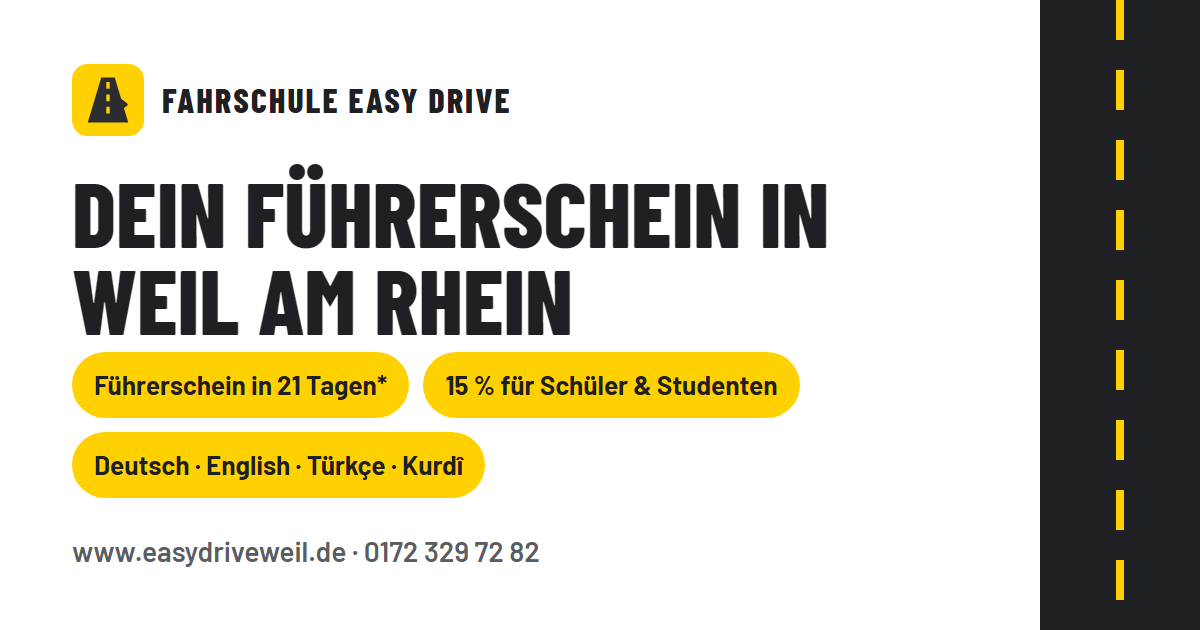
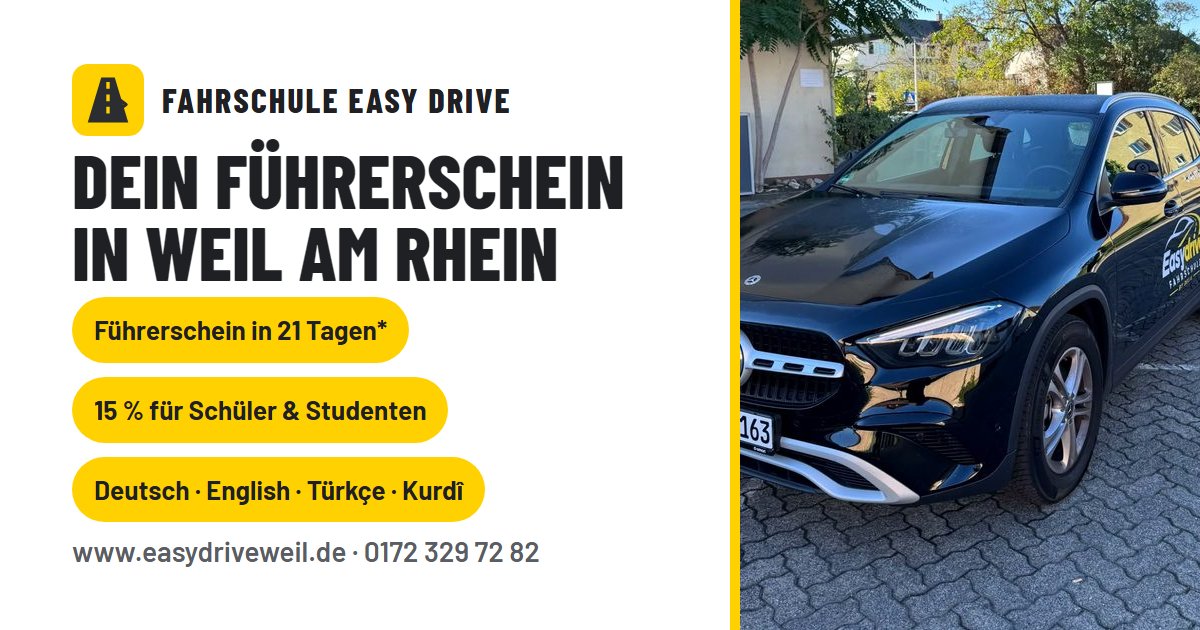
v3c: real photos, values section, photo social preview
Preview build, still noindex. Client photos on fleet, about, contact, values, Intensivkurs and Klassen pages; og.png with the car.

diff --git a/index.html b/index.html
@@ -12,7 +12,7 @@
 <link rel="icon" href="assets/img/favicon.svg" type="image/svg+xml">
 <link rel="preload" href="assets/fonts/barlow-condensed-800-latin.woff2" as="font" type="font/woff2" crossorigin>
 <link rel="preload" href="assets/fonts/barlow-400-latin.woff2" as="font" type="font/woff2" crossorigin>
-<link rel="stylesheet" href="assets/css/styles.css?v=a0ed5429">
+<link rel="stylesheet" href="assets/css/styles.css?v=307ae176">
 <meta property="og:type" content="website">
 <meta property="og:site_name" content="Fahrschule Easy Drive">
 <meta property="og:title" content="Fahrschule Weil am Rhein – Easy Drive · Führerschein in 21 Tagen*">
@@ -58,7 +58,7 @@
 
 <section class="jy jy--static" id="journey" aria-label="Die Fahrt – die Fahrschule auf der Karte von Weil am Rhein bis Lörrach">
   <div class="jy-sticky">
-    <div class="jy-stage" data-map="assets/img/map.svg?v=a0ed5429"><noscript><img src="assets/img/map.svg" width="1393" height="838" alt="Isometrische Karte von Weil am Rhein-Haltingen bis Lörrach mit dem Standort der Fahrschule Easy Drive"></noscript></div>
+    <div class="jy-stage" data-map="assets/img/map.svg?v=307ae176"><noscript><img src="assets/img/map.svg" width="1393" height="838" alt="Isometrische Karte von Weil am Rhein-Haltingen bis Lörrach mit dem Standort der Fahrschule Easy Drive"></noscript></div>
     <div class="jy-copylayer">
       <article class="jy-copy is-on" data-stop="anmelden" data-label="Haltingen">
         <span class="jy-copy__num"><b>01</b> / 06 · Heldelinger Straße 6, Weil am Rhein-Haltingen</span>
@@ -191,12 +191,14 @@
     </div>
     <div class="fleet">
       <div class="fleet__card">
-        <div class="fleet__img"><img src="assets/img/car-gla.svg" width="400" height="180" alt="Mercedes-Benz GLA 200 in Schwarz – Platzhalterbild, Foto folgt"></div>
-        <span class="fleet__ribbon">Foto folgt</span>
+        <div class="fleet__img"><img src="assets/img/photos/car-side-960.webp"
+          srcset="assets/img/photos/car-side-480.webp 480w, assets/img/photos/car-side-960.webp 960w, assets/img/photos/car-side-1440.webp 1440w"
+          sizes="(max-width: 860px) 100vw, 560px" width="1440" height="960" loading="lazy" decoding="async"
+          alt="Schwarzer Mercedes-Benz GLA 200 der Fahrschule Easy Drive mit Beschriftung, Seitenansicht"></div>
         <div class="fleet__body"><h3>Mercedes-Benz GLA 200</h3><p>Schwarz – Fahrschulauto für Klasse B und B197</p></div>
       </div>
       <div class="fleet__card">
-        <div class="fleet__img"><img src="assets/img/car-taigo.svg" width="400" height="180" alt="VW Taigo in Weiß – Platzhalterbild, Foto folgt"></div>
+        <div class="fleet__img fleet__img--placeholder"><img src="assets/img/car-taigo.svg" width="400" height="180" alt="VW Taigo in Weiß – Platzhalterbild, Foto folgt"></div>
         <span class="fleet__ribbon">Foto folgt</span>
         <div class="fleet__body"><h3>VW Taigo</h3><p>Weiß – Fahrschulauto für Klasse B und BE</p></div>
       </div>
@@ -237,8 +239,43 @@
       <div class="chips"><span class="chip">Persönliche Betreuung</span><span class="chip">Flexible Termine</span><span class="chip">Automatik und Schaltung</span><span class="chip">Automatik ohne Eintrag (B197)</span></div>
     </div>
     <div class="portrait">
-      <img src="assets/img/portrait.svg" width="400" height="300" alt="Team der Fahrschule Easy Drive – Foto folgt">
-      <div class="portrait__cap">Dein Fahrlehrer-Team – Foto folgt</div>
+      <img src="assets/img/photos/office-960.webp"
+        srcset="assets/img/photos/office-480.webp 480w, assets/img/photos/office-960.webp 960w, assets/img/photos/office-1440.webp 1440w"
+        sizes="(max-width: 860px) 100vw, 560px" width="1440" height="1080" loading="lazy" decoding="async"
+        alt="Empfang der Fahrschule Easy Drive in Haltingen: zwei Sessel, Tisch und Schreibtisch">
+      <div class="portrait__cap">Unser Büro an der Heldelinger Straße – Bürozeiten Mo · Mi · Fr 16:00–18:30 Uhr</div>
+    </div>
+  </div>
+</section>
+
+<section class="section section--grey" id="werte">
+  <div class="wrap values">
+    <figure class="values__photo">
+      <img src="assets/img/photos/pinboard-960.webp"
+        srcset="assets/img/photos/pinboard-480.webp 480w, assets/img/photos/pinboard-960.webp 960w, assets/img/photos/pinboard-1440.webp 1440w"
+        sizes="(max-width: 860px) 100vw, 480px" width="1440" height="1290" loading="lazy" decoding="async"
+        alt="Pinnwand im Theorieraum: unsere Regeln und Werte – partnerschaftlich, defensiv, umweltschonend, tolerant, Verkehrssicherheit hat oberste Priorität">
+      <figcaption>Pinnwand in unserem Theorieraum</figcaption>
+    </figure>
+    <div class="values__text">
+      <h2 class="h2">So fahren wir</h2>
+      <p class="lead">Fünf Worte hängen bei uns an der Wand, bevor die erste Stunde beginnt.</p>
+      <ul class="values__list">
+        <li>Partnerschaftlich</li><li>Defensiv</li><li>Umweltschonend</li><li>Tolerant</li>
+        <li class="values__prio">Verkehrssicherheit hat oberste Priorität</li>
+      </ul>
+      <h3 class="h3">Unsere Regeln im Unterricht</h3>
+      <ul class="values__rules">
+        <li>Respektvoll</li><li>Hilfsbereit</li><li>Freundlichkeit</li><li>Gutes Miteinander</li><li>Unterstützend</li>
+        <li>Ehrlichkeit</li><li>Offenheit / Teamfähigkeit</li><li>Zusammenhalt</li><li>Auf Augenhöhe</li><li>Gleiches Ziel</li>
+      </ul>
+      <figure class="values__room">
+        <img src="assets/img/photos/classroom-960.webp"
+          srcset="assets/img/photos/classroom-480.webp 480w, assets/img/photos/classroom-960.webp 960w, assets/img/photos/classroom-1440.webp 1440w"
+          sizes="(max-width: 860px) 100vw, 560px" width="1440" height="1080" loading="lazy" decoding="async"
+          alt="Theorieraum der Fahrschule Easy Drive mit Tischen, Flipchart und Lehrpostern">
+        <figcaption>Theorie in kleinen Gruppen, drei Minuten vom Bahnhof Haltingen</figcaption>
+      </figure>
     </div>
   </div>
 </section>
@@ -268,6 +305,12 @@
       <div>
         <h2 class="h2">Komm vorbei – oder schreib uns</h2>
         <p class="lead">Bürozeiten für Beratung und Anmeldung. Fahrstunden nach Vereinbarung, auch außerhalb der Bürozeiten.</p>
+        <div class="contact__photo">
+          <img src="assets/img/photos/office-desk-960.webp"
+            srcset="assets/img/photos/office-desk-480.webp 480w, assets/img/photos/office-desk-960.webp 960w, assets/img/photos/office-desk-1440.webp 1440w"
+            sizes="(max-width: 860px) 100vw, 560px" width="1440" height="1080" loading="lazy" decoding="async"
+            alt="Schreibtisch im Büro der Fahrschule Easy Drive mit Infopostern zum Führerscheinantrag">
+        </div>
         <ul class="contact__list">
           <li><svg viewBox="0 0 24 24" fill="none" stroke="currentColor" stroke-width="2" stroke-linecap="round" stroke-linejoin="round" aria-hidden="true"><path d="M12 21s7-6.2 7-11a7 7 0 0 0-14 0c0 4.8 7 11 7 11z"/><circle cx="12" cy="10" r="2.5"/></svg><span>Heldelinger Straße 6, 79576 Weil am Rhein-Haltingen – <a href="https://www.google.com/maps/search/?api=1&query=Heldelinger+Stra%C3%9Fe+6%2C+79576+Weil+am+Rhein" target="_blank" rel="noopener">Route planen</a></span></li>
           <li><svg viewBox="0 0 24 24" fill="none" stroke="currentColor" stroke-width="2" stroke-linecap="round" stroke-linejoin="round" aria-hidden="true"><circle cx="12" cy="12" r="9"/><path d="M12 7v5l3 2"/></svg><span>Mo · Mi · Fr 16:00–18:30 Uhr</span></li>
@@ -305,8 +348,8 @@
 </section>
 
 </main>
-<script src="assets/js/journey-data.js?v=a0ed5429" defer></script>
-<script src="assets/js/journey.js?v=a0ed5429" defer></script>
+<script src="assets/js/journey-data.js?v=307ae176" defer></script>
+<script src="assets/js/journey.js?v=307ae176" defer></script>
 
 <section class="cta" id="cta">
   <div class="wrap cta__inner">
@@ -360,6 +403,6 @@
   <a class="btn btn--primary" href="#anfrage">Jetzt anmelden</a>
 </div>
 
-<script src="assets/js/app.js?v=a0ed5429" defer></script>
+<script src="assets/js/app.js?v=307ae176" defer></script>
 </body>
 </html>

diff --git a/assets/css/styles.css b/assets/css/styles.css
@@ -143,8 +143,9 @@ p{margin:0 0 1em}
 /* ---------- fleet ---------- */
 .fleet{display:grid;grid-template-columns:1fr 1fr;gap:22px}
 .fleet__card{position:relative;border:1px solid var(--line);border-radius:var(--radius);overflow:hidden;background:#fff}
-.fleet__img{aspect-ratio:16/9;background:linear-gradient(180deg,#fff 0,var(--grey-1) 100%);display:grid;place-items:center;padding:30px}
-.fleet__img img{width:80%;height:auto}
+.fleet__img{aspect-ratio:3/2;background:var(--grey-1)}
+.fleet__img img{width:100%;height:100%;object-fit:cover;display:block}
+.fleet__img--placeholder img{object-fit:contain;padding:24px}
 .fleet__ribbon{position:absolute;top:18px;right:-40px;transform:rotate(35deg);background:var(--yellow);color:var(--anthracite-2);font-weight:800;font-family:var(--f-display);text-transform:uppercase;letter-spacing:.06em;padding:6px 60px;font-size:.9rem}
 .fleet__body{padding:18px 22px 22px}
 .fleet__body h3{margin:0 0 4px;font-family:var(--f-display);text-transform:uppercase;font-size:1.4rem}
@@ -165,6 +166,18 @@ p{margin:0 0 1em}
 .portrait img{width:100%;height:auto}
 .portrait__cap{position:absolute;left:0;right:0;bottom:0;background:rgba(30,32,35,.85);color:#fff;padding:10px 16px;font-size:.9rem}
 
+/* ---------- classroom values ---------- */
+.values{display:grid;grid-template-columns:.9fr 1.1fr;gap:40px;align-items:start}
+.values__photo,.values__room{margin:0;border-radius:var(--radius);overflow:hidden;border:1px solid var(--line);background:#fff}
+.values__photo img,.values__room img{display:block;width:100%;height:auto}
+.values figcaption{font-size:.85rem;color:var(--muted);padding:10px 14px}
+.values__list{list-style:none;padding:0;margin:0 0 26px;display:flex;flex-wrap:wrap;gap:10px}
+.values__list li{font-family:var(--f-display);font-weight:700;font-size:1.25rem;padding:10px 16px;border:2px solid var(--anthracite);border-radius:12px}
+.values__list .values__prio{width:100%;background:var(--yellow);border-color:var(--yellow)}
+.values__rules{columns:2;column-gap:28px;padding-left:20px;margin:0 0 26px;line-height:1.7}
+.values__room{margin-top:8px}
+@media (max-width:860px){.values{grid-template-columns:1fr}.values__rules{columns:1}}
+
 /* ---------- faq ---------- */
 .faq{max-width:820px;display:grid;gap:10px}
 .faq details{background:#fff;border:1px solid var(--line);border-radius:12px;padding:0 20px}
@@ -176,6 +189,8 @@ p{margin:0 0 1em}
 
 /* ---------- contact + form + map ---------- */
 .contact{display:grid;grid-template-columns:.9fr 1.1fr;gap:36px;align-items:start}
+.contact__photo{border-radius:var(--radius);overflow:hidden;margin:0 0 18px}
+.contact__photo img{display:block;width:100%;height:auto}
 .contact__list{list-style:none;padding:0;margin:0 0 20px;display:grid;gap:12px}
 .contact__list li{display:flex;gap:12px;align-items:flex-start}
 .contact__list svg{width:22px;height:22px;flex:none;color:var(--yellow-2);margin-top:2px}
@@ -236,6 +251,9 @@ p{margin:0 0 1em}
 .breadcrumb{font-size:.85rem;color:var(--muted);margin:0 0 14px}
 .subhead{margin-bottom:28px}
 .subhead .lead{margin-bottom:12px}
+.page-photo{margin:28px 0 0;border-radius:var(--radius);overflow:hidden;border:1px solid var(--line)}
+.page-photo img{display:block;width:100%;height:auto}
+.page-photo figcaption{font-size:.85rem;color:var(--muted);padding:10px 14px;background:#fff}
 
 /* ---------- responsive ---------- */
 @media (max-width:980px){.hero__grid,.about,.contact,.classblock{grid-template-columns:1fr}.grid--3{grid-template-columns:1fr 1fr}.steps{grid-template-columns:repeat(2,1fr)}.lang{grid-template-columns:1fr 1fr}.foot__inner{grid-template-columns:1fr 1fr}.keyfacts{position:static}}

diff --git a/intensivkurs/index.html b/intensivkurs/index.html
@@ -12,7 +12,7 @@
 <link rel="icon" href="../assets/img/favicon.svg" type="image/svg+xml">
 <link rel="preload" href="../assets/fonts/barlow-condensed-800-latin.woff2" as="font" type="font/woff2" crossorigin>
 <link rel="preload" href="../assets/fonts/barlow-400-latin.woff2" as="font" type="font/woff2" crossorigin>
-<link rel="stylesheet" href="../assets/css/styles.css?v=a0ed5429">
+<link rel="stylesheet" href="../assets/css/styles.css?v=307ae176">
 <meta property="og:type" content="website">
 <meta property="og:site_name" content="Fahrschule Easy Drive">
 <meta property="og:title" content="Intensivkurs – Führerschein in 21 Tagen* in Weil am Rhein & Lörrach">
@@ -63,6 +63,13 @@
       <p class="lead">Wenig Zeit, klares Ziel: Nach bestandener Theorieprüfung bringen wir dich mit täglichen Fahrstunden und einem festen Plan in drei Wochen zur praktischen Prüfung.</p>
       <p class="note">*Voraussetzungen: bestandene Theorieprüfung und vorliegender Prüfauftrag, regelmäßige (in der Regel tägliche) Fahrstunden, verfügbare Prüfungstermine beim TÜV SÜD, Bestehen im ersten Anlauf, Mindestalter erreicht.</p>
       <div class="chips"><span class="chip chip--yellow">Start jederzeit nach Absprache</span><span class="chip">Automatik oder Schaltung</span><span class="chip">Deutsch, Englisch, Türkisch, Kurdisch</span></div>
+      <figure class="page-photo">
+        <img src="../assets/img/photos/car-angle-960.webp"
+          srcset="../assets/img/photos/car-angle-480.webp 480w, ../assets/img/photos/car-angle-960.webp 960w, ../assets/img/photos/car-angle-1440.webp 1440w"
+          sizes="(max-width: 860px) 100vw, 560px" width="1440" height="1080" loading="lazy" decoding="async"
+          alt="Mercedes-Benz GLA 200 der Fahrschule Easy Drive, Dreiviertelansicht von vorn">
+        <figcaption>Dein Auto für 21 Tage: Mercedes-Benz GLA 200, Automatik oder Schaltung</figcaption>
+      </figure>
     </div>
 
     <div class="prose">
@@ -167,6 +174,6 @@
   <a class="btn btn--primary" href="../#anfrage">Jetzt anmelden</a>
 </div>
 
-<script src="../assets/js/app.js?v=a0ed5429" defer></script>
+<script src="../assets/js/app.js?v=307ae176" defer></script>
 </body>
 </html>

diff --git a/fuehrerscheinklassen/index.html b/fuehrerscheinklassen/index.html
@@ -12,7 +12,7 @@
 <link rel="icon" href="../assets/img/favicon.svg" type="image/svg+xml">
 <link rel="preload" href="../assets/fonts/barlow-condensed-800-latin.woff2" as="font" type="font/woff2" crossorigin>
 <link rel="preload" href="../assets/fonts/barlow-400-latin.woff2" as="font" type="font/woff2" crossorigin>
-<link rel="stylesheet" href="../assets/css/styles.css?v=a0ed5429">
+<link rel="stylesheet" href="../assets/css/styles.css?v=307ae176">
 <meta property="og:type" content="website">
 <meta property="og:site_name" content="Fahrschule Easy Drive">
 <meta property="og:title" content="Führerscheinklassen B, B197 & BE – Fahrschule Easy Drive Weil am Rhein">
@@ -115,6 +115,13 @@
         <p>Kein Automatik-Vermerk heißt: volle Klasse B, auch im EU-Ausland. Wer sicher nie schalten will, kann alternativ den reinen Automatik-Führerschein (Schlüsselzahl 78) machen – frag uns.</p>
         <h3>Geeignet für</h3>
         <p>Fahranfänger, die stressfrei lernen wollen, Menschen mit Prüfungsangst, Umsteiger aus Ländern mit Automatik-Kultur – und alle, die wissen, dass die Zukunft elektrisch und automatisch fährt.</p>
+        <figure class="page-photo">
+          <img src="../assets/img/photos/car-front-960.webp"
+            srcset="../assets/img/photos/car-front-480.webp 480w, ../assets/img/photos/car-front-960.webp 960w, ../assets/img/photos/car-front-1440.webp 1440w"
+            sizes="(max-width: 860px) 100vw, 560px" width="1440" height="1080" loading="lazy" decoding="async"
+            alt="Mercedes-Benz GLA 200 der Fahrschule Easy Drive von vorn">
+          <figcaption>Automatik lernen, Schaltung fahren dürfen – mit unserem GLA 200</figcaption>
+        </figure>
       </div>
       <aside class="keyfacts">
         <b>Klasse B197</b>
@@ -219,6 +226,6 @@
   <a class="btn btn--primary" href="../#anfrage">Jetzt anmelden</a>
 </div>
 
-<script src="../assets/js/app.js?v=a0ed5429" defer></script>
+<script src="../assets/js/app.js?v=307ae176" defer></script>
 </body>
 </html>

diff --git a/tr/index.html b/tr/index.html
@@ -12,7 +12,7 @@
 <link rel="icon" href="../assets/img/favicon.svg" type="image/svg+xml">
 <link rel="preload" href="../assets/fonts/barlow-condensed-800-latin.woff2" as="font" type="font/woff2" crossorigin>
 <link rel="preload" href="../assets/fonts/barlow-400-latin.woff2" as="font" type="font/woff2" crossorigin>
-<link rel="stylesheet" href="../assets/css/styles.css?v=a0ed5429">
+<link rel="stylesheet" href="../assets/css/styles.css?v=307ae176">
 <meta property="og:type" content="website">
 <meta property="og:site_name" content="Fahrschule Easy Drive">
 <meta property="og:title" content="Weil am Rhein Sürücü Kursu – Türkçe Ehliyet · Fahrschule Easy Drive">
@@ -74,6 +74,12 @@
       <div class="usp"><span class="usp__big">21</span><div><div class="usp__t">gün içinde direksiyon sınavı*</div><div class="usp__s">teori sınavından sonra</div></div></div>
       <div class="usp"><span class="usp__big">4</span><div><div class="usp__t">dil</div><div class="usp__s">Almanca, İngilizce, Türkçe, Kürtçe</div></div></div>
     </aside>
+    <figure class="page-photo">
+      <img src="../assets/img/photos/car-side-960.webp"
+        srcset="../assets/img/photos/car-side-480.webp 480w, ../assets/img/photos/car-side-960.webp 960w, ../assets/img/photos/car-side-1440.webp 1440w"
+        sizes="(max-width: 860px) 100vw, 560px" width="1440" height="960" loading="lazy" decoding="async"
+        alt="Easy Drive sürücü kursunun yazılı siyah Mercedes-Benz GLA 200 aracı, yandan">
+    </figure>
   </div>
 </section>
 
@@ -235,6 +241,6 @@
   <a class="btn btn--primary" href="#anfrage">Hemen kaydol</a>
 </div>
 
-<script src="../assets/js/app.js?v=a0ed5429" defer></script>
+<script src="../assets/js/app.js?v=307ae176" defer></script>
 </body>
 </html>

diff --git a/en/index.html b/en/index.html
@@ -12,7 +12,7 @@
 <link rel="icon" href="../assets/img/favicon.svg" type="image/svg+xml">
 <link rel="preload" href="../assets/fonts/barlow-condensed-800-latin.woff2" as="font" type="font/woff2" crossorigin>
 <link rel="preload" href="../assets/fonts/barlow-400-latin.woff2" as="font" type="font/woff2" crossorigin>
-<link rel="stylesheet" href="../assets/css/styles.css?v=a0ed5429">
+<link rel="stylesheet" href="../assets/css/styles.css?v=307ae176">
 <meta property="og:type" content="website">
 <meta property="og:site_name" content="Fahrschule Easy Drive">
 <meta property="og:title" content="Driving School Weil am Rhein, Germany (near Basel) – Easy Drive">
@@ -74,6 +74,12 @@
       <div class="usp"><span class="usp__big">21</span><div><div class="usp__t">days to your practical test*</div><div class="usp__s">after passing the theory test</div></div></div>
       <div class="usp"><span class="usp__big">4</span><div><div class="usp__t">languages</div><div class="usp__s">German, English, Turkish, Kurdish</div></div></div>
     </aside>
+    <figure class="page-photo">
+      <img src="../assets/img/photos/car-side-960.webp"
+        srcset="../assets/img/photos/car-side-480.webp 480w, ../assets/img/photos/car-side-960.webp 960w, ../assets/img/photos/car-side-1440.webp 1440w"
+        sizes="(max-width: 860px) 100vw, 560px" width="1440" height="960" loading="lazy" decoding="async"
+        alt="Black Mercedes-Benz GLA 200 of Easy Drive driving school with livery, side view">
+    </figure>
   </div>
 </section>
 
@@ -235,6 +241,6 @@
   <a class="btn btn--primary" href="#anfrage">Sign up now</a>
 </div>
 
-<script src="../assets/js/app.js?v=a0ed5429" defer></script>
+<script src="../assets/js/app.js?v=307ae176" defer></script>
 </body>
 </html>

diff --git a/sprachen/index.html b/sprachen/index.html
@@ -12,7 +12,7 @@
 <link rel="icon" href="../assets/img/favicon.svg" type="image/svg+xml">
 <link rel="preload" href="../assets/fonts/barlow-condensed-800-latin.woff2" as="font" type="font/woff2" crossorigin>
 <link rel="preload" href="../assets/fonts/barlow-400-latin.woff2" as="font" type="font/woff2" crossorigin>
-<link rel="stylesheet" href="../assets/css/styles.css?v=a0ed5429">
+<link rel="stylesheet" href="../assets/css/styles.css?v=307ae176">
 <meta property="og:type" content="website">
 <meta property="og:site_name" content="Fahrschule Easy Drive">
 <meta property="og:title" content="Fahrschule auf Türkisch, Kurdisch & Englisch – Weil am Rhein / Lörrach">
@@ -149,6 +149,6 @@
   <a class="btn btn--primary" href="../#anfrage">Jetzt anmelden</a>
 </div>
 
-<script src="../assets/js/app.js?v=a0ed5429" defer></script>
+<script src="../assets/js/app.js?v=307ae176" defer></script>
 </body>
 </html>

diff --git a/fahrschule-loerrach/index.html b/fahrschule-loerrach/index.html
@@ -12,7 +12,7 @@
 <link rel="icon" href="../assets/img/favicon.svg" type="image/svg+xml">
 <link rel="preload" href="../assets/fonts/barlow-condensed-800-latin.woff2" as="font" type="font/woff2" crossorigin>
 <link rel="preload" href="../assets/fonts/barlow-400-latin.woff2" as="font" type="font/woff2" crossorigin>
-<link rel="stylesheet" href="../assets/css/styles.css?v=a0ed5429">
+<link rel="stylesheet" href="../assets/css/styles.css?v=307ae176">
 <meta property="og:type" content="website">
 <meta property="og:site_name" content="Fahrschule Easy Drive">
 <meta property="og:title" content="Fahrschule für Lörrach – Easy Drive in Weil am Rhein-Haltingen">
@@ -136,6 +136,6 @@
   <a class="btn btn--primary" href="../#anfrage">Jetzt anmelden</a>
 </div>
 
-<script src="../assets/js/app.js?v=a0ed5429" defer></script>
+<script src="../assets/js/app.js?v=307ae176" defer></script>
 </body>
 </html>

diff --git a/impressum/index.html b/impressum/index.html
@@ -12,7 +12,7 @@
 <link rel="icon" href="../assets/img/favicon.svg" type="image/svg+xml">
 <link rel="preload" href="../assets/fonts/barlow-condensed-800-latin.woff2" as="font" type="font/woff2" crossorigin>
 <link rel="preload" href="../assets/fonts/barlow-400-latin.woff2" as="font" type="font/woff2" crossorigin>
-<link rel="stylesheet" href="../assets/css/styles.css?v=a0ed5429">
+<link rel="stylesheet" href="../assets/css/styles.css?v=307ae176">
 <meta property="og:type" content="website">
 <meta property="og:site_name" content="Fahrschule Easy Drive">
 <meta property="og:title" content="Impressum – Fahrschule Easy Drive, Weil am Rhein">
@@ -115,6 +115,6 @@
   <a class="btn btn--primary" href="../#anfrage">Jetzt anmelden</a>
 </div>
 
-<script src="../assets/js/app.js?v=a0ed5429" defer></script>
+<script src="../assets/js/app.js?v=307ae176" defer></script>
 </body>
 </html>

diff --git a/datenschutz/index.html b/datenschutz/index.html
@@ -12,7 +12,7 @@
 <link rel="icon" href="../assets/img/favicon.svg" type="image/svg+xml">
 <link rel="preload" href="../assets/fonts/barlow-condensed-800-latin.woff2" as="font" type="font/woff2" crossorigin>
 <link rel="preload" href="../assets/fonts/barlow-400-latin.woff2" as="font" type="font/woff2" crossorigin>
-<link rel="stylesheet" href="../assets/css/styles.css?v=a0ed5429">
+<link rel="stylesheet" href="../assets/css/styles.css?v=307ae176">
 <meta property="og:type" content="website">
 <meta property="og:site_name" content="Fahrschule Easy Drive">
 <meta property="og:title" content="Datenschutzerklärung – Fahrschule Easy Drive">
@@ -114,6 +114,6 @@
   <a class="btn btn--primary" href="../#anfrage">Jetzt anmelden</a>
 </div>
 
-<script src="../assets/js/app.js?v=a0ed5429" defer></script>
+<script src="../assets/js/app.js?v=307ae176" defer></script>
 </body>
 </html>

diff --git a/404.html b/404.html
@@ -12,7 +12,7 @@
 <link rel="icon" href="/assets/img/favicon.svg" type="image/svg+xml">
 <link rel="preload" href="/assets/fonts/barlow-condensed-800-latin.woff2" as="font" type="font/woff2" crossorigin>
 <link rel="preload" href="/assets/fonts/barlow-400-latin.woff2" as="font" type="font/woff2" crossorigin>
-<link rel="stylesheet" href="/assets/css/styles.css?v=a0ed5429">
+<link rel="stylesheet" href="/assets/css/styles.css?v=307ae176">
 <meta property="og:type" content="website">
 <meta property="og:site_name" content="Fahrschule Easy Drive">
 <meta property="og:title" content="Seite nicht gefunden – Fahrschule Easy Drive">
@@ -111,6 +111,6 @@
   <a class="btn btn--primary" href="/#anfrage">Jetzt anmelden</a>
 </div>
 
-<script src="/assets/js/app.js?v=a0ed5429" defer></script>
+<script src="/assets/js/app.js?v=307ae176" defer></script>
 </body>
 </html>
